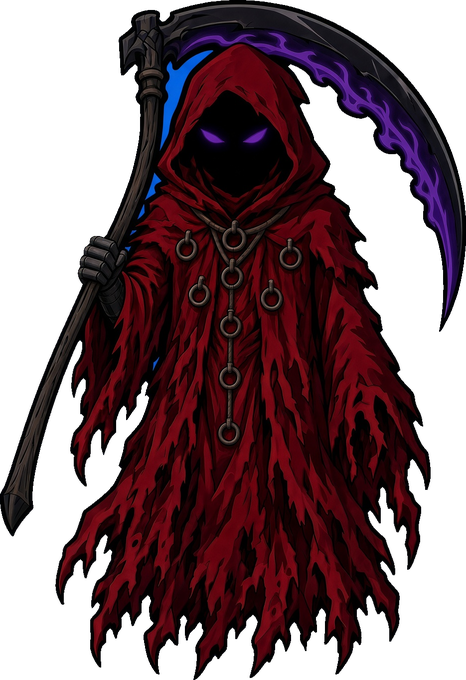
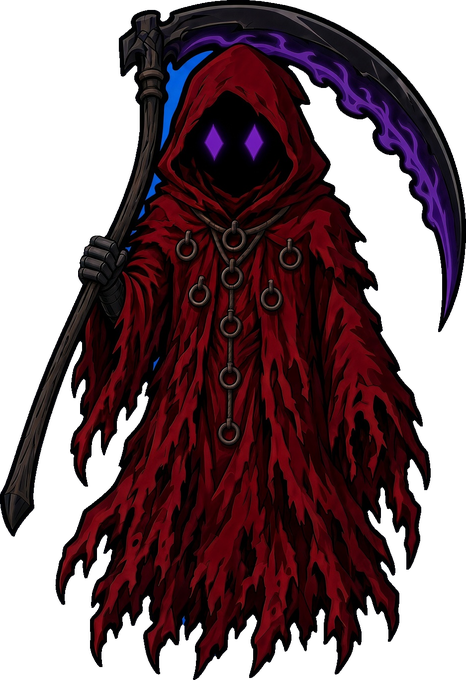
Give the summoner diamond eyes
Same robe and scythe. The eye slits are now tall pointed diamonds.

diff --git a/index.html b/index.html
@@ -270,7 +270,7 @@
   <div id="ghost-speech" class="ghost-bubble">✦ drag me. call them.</div>
 
   <div id="ghost-character" class="ghost-body">
-    <img class="ghost-svg" src="ghost.png?v=6" alt="" width="132" draggable="false">
+    <img class="ghost-svg" src="ghost.png?v=7" alt="" width="132" draggable="false">
   </div>
 
   <div class="ghost-mana" id="ghostMana" role="meter" aria-label="Soul" aria-valuemin="0" aria-valuemax="100" aria-valuenow="100">
